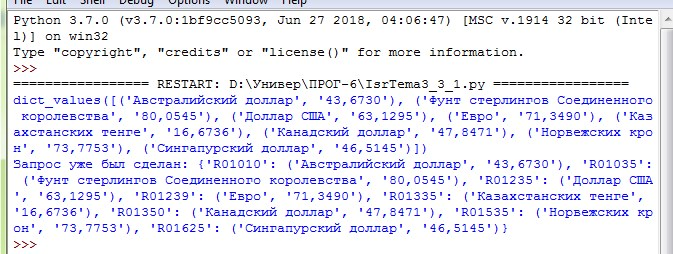
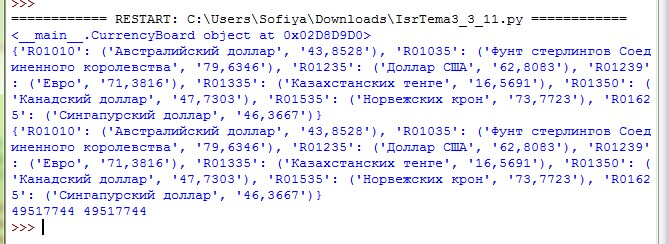
Add files via upload

diff --git a/IsrTema3_3_1.py b/IsrTema3_3_1.py
@@ -2,41 +2,38 @@ from urllib.request import urlopen
 from xml.etree import ElementTree as ET
 
 class CurrencyBoard:
-    __instance = None
+    __instance = None # создаём переменную, в которую
+
+    @staticmethod
+    def getInstance():
+        if CurrencyBoard.__instance == None: # проверяем на наличие данных
+            CurrencyBoard()
+        return CurrencyBoard.__instance
+
     def __init__(self):
-        if not CurrencyBoard.__instance:
-            print('Делаем запрос')
-        else:
-            print('Запрос уже был сделан:', self.update())
-    @classmethod
-    def update(cls):
-        if not cls.__instance:
-            currencies_ids_lst = ['R01239', 'R01235', 'R01035', 'R01010', 'R01090',
-                                  'R01335', 'R01350', 'R01535', 'R01625', 'R01700']
-
-            cur_res_str = urlopen("http://www.cbr.ru/scripts/XML_daily.asp")
-
-            result = {}
-
-            cur_res_xml = ET.parse(cur_res_str)
-
-            root = cur_res_xml.getroot()
-            valutes = root.findall('Valute')
+        if CurrencyBoard.__instance == None:
+            currencies_ids_lst = ['R01239', 'R01235', 'R01035', 'R01010', 'R01090', # список id валют
+                                  'R01335', 'R01350', 'R01535', 'R01625', 'R01700'] # которые мы сами выбрали
+            cur_res_str = urlopen("http://www.cbr.ru/scripts/XML_daily.asp") # получаем данные с сервера
+            result = {} # создаём словарь
+            cur_res_xml = ET.parse(cur_res_str) # парсим полученные данные
+            root = cur_res_xml.getroot() # находим корневой элемент
+            valutes = root.findall('Valute') # находим элементы с соответствующим тегом
             for el in valutes:
-                valute_id = el.get('ID')
+                valute_id = el.get('ID') # получаем все id
+                if str(valute_id) in currencies_ids_lst: # находим наши id в списке всех id
+                    valute_cur_val = el.find('Value').text # записываем значение курса валют
+                    valute_cur_n = el.find('Name').text # записываем названия соответствующих курсов валют
+                    result[valute_id] = valute_cur_n, valute_cur_val # записываем полученные данные в словарь
+            CurrencyBoard.__instance = result # присваиваем переменной __instance значение словаря
 
-                if str(valute_id) in currencies_ids_lst:
-                    valute_cur_val = el.find('Value').text
-                    valute_cur_n = el.find('Name').text
-                    result[valute_id] = valute_cur_n, valute_cur_val
-            cls.__instance = result
-        return cls.__instance
+a = CurrencyBoard()
+print(a)
 
-# инициализируем класс и выводим значения, чтобы выводились только
-# наименования валют и текущий курс, используем .value(), так как получаем словарь
+b = CurrencyBoard.getInstance()
+print (b)
 
-print(CurrencyBoard.update().values())
-
-# проверяем, посылается ли запрос второй раз. В случае успеха,
-# консоль выведет "Запрос уже был сделан", с демонстрацией хранимых данных
-CurrencyBoard()
+c = CurrencyBoard.getInstance()
+print (c)
+assert b == c # сверяем значения адресов переменных
+print(id(b), id(c))
